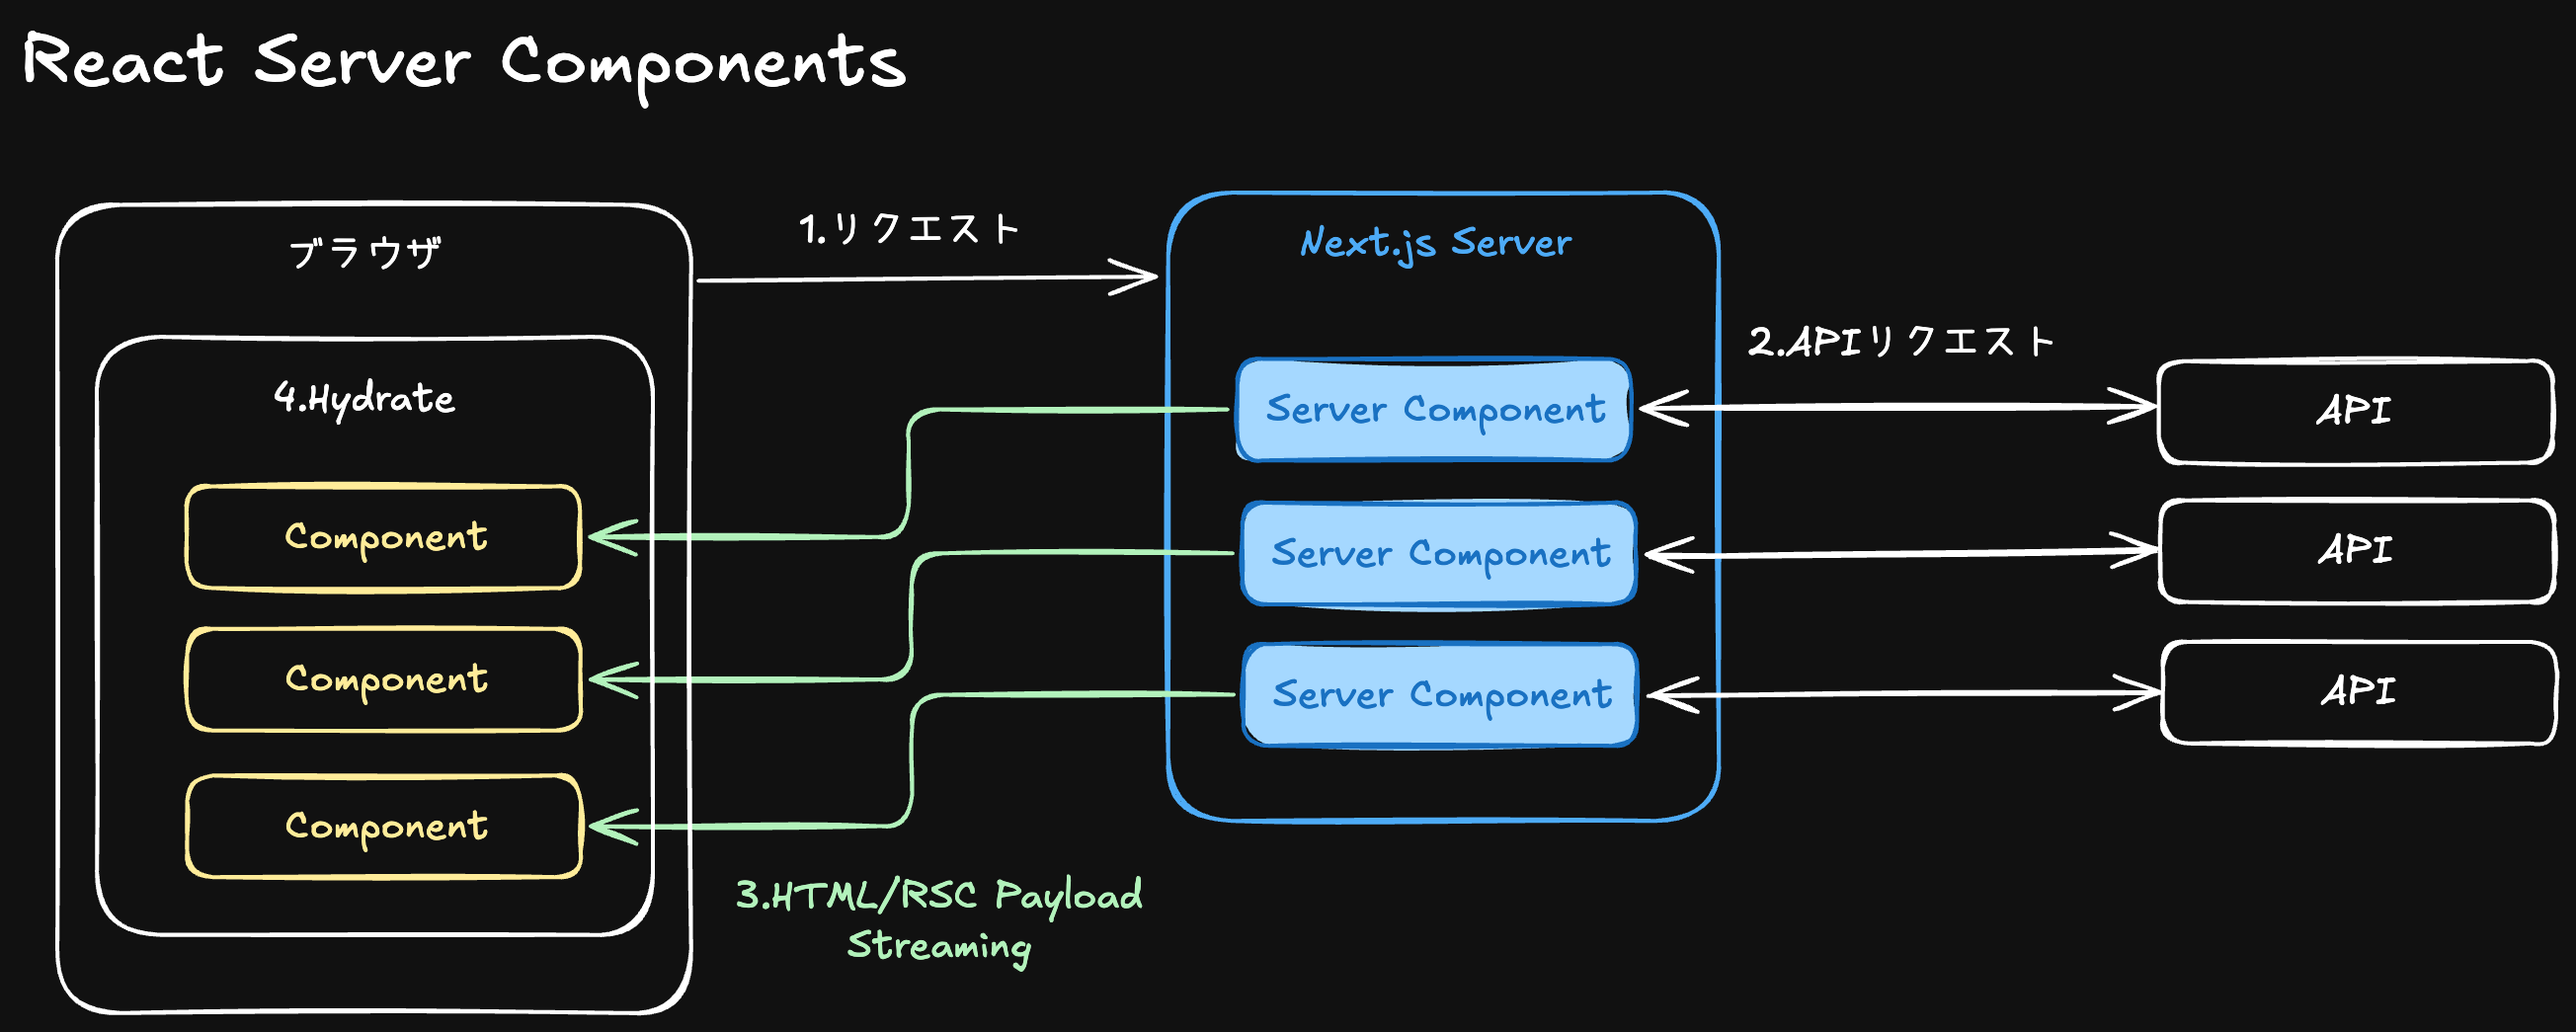
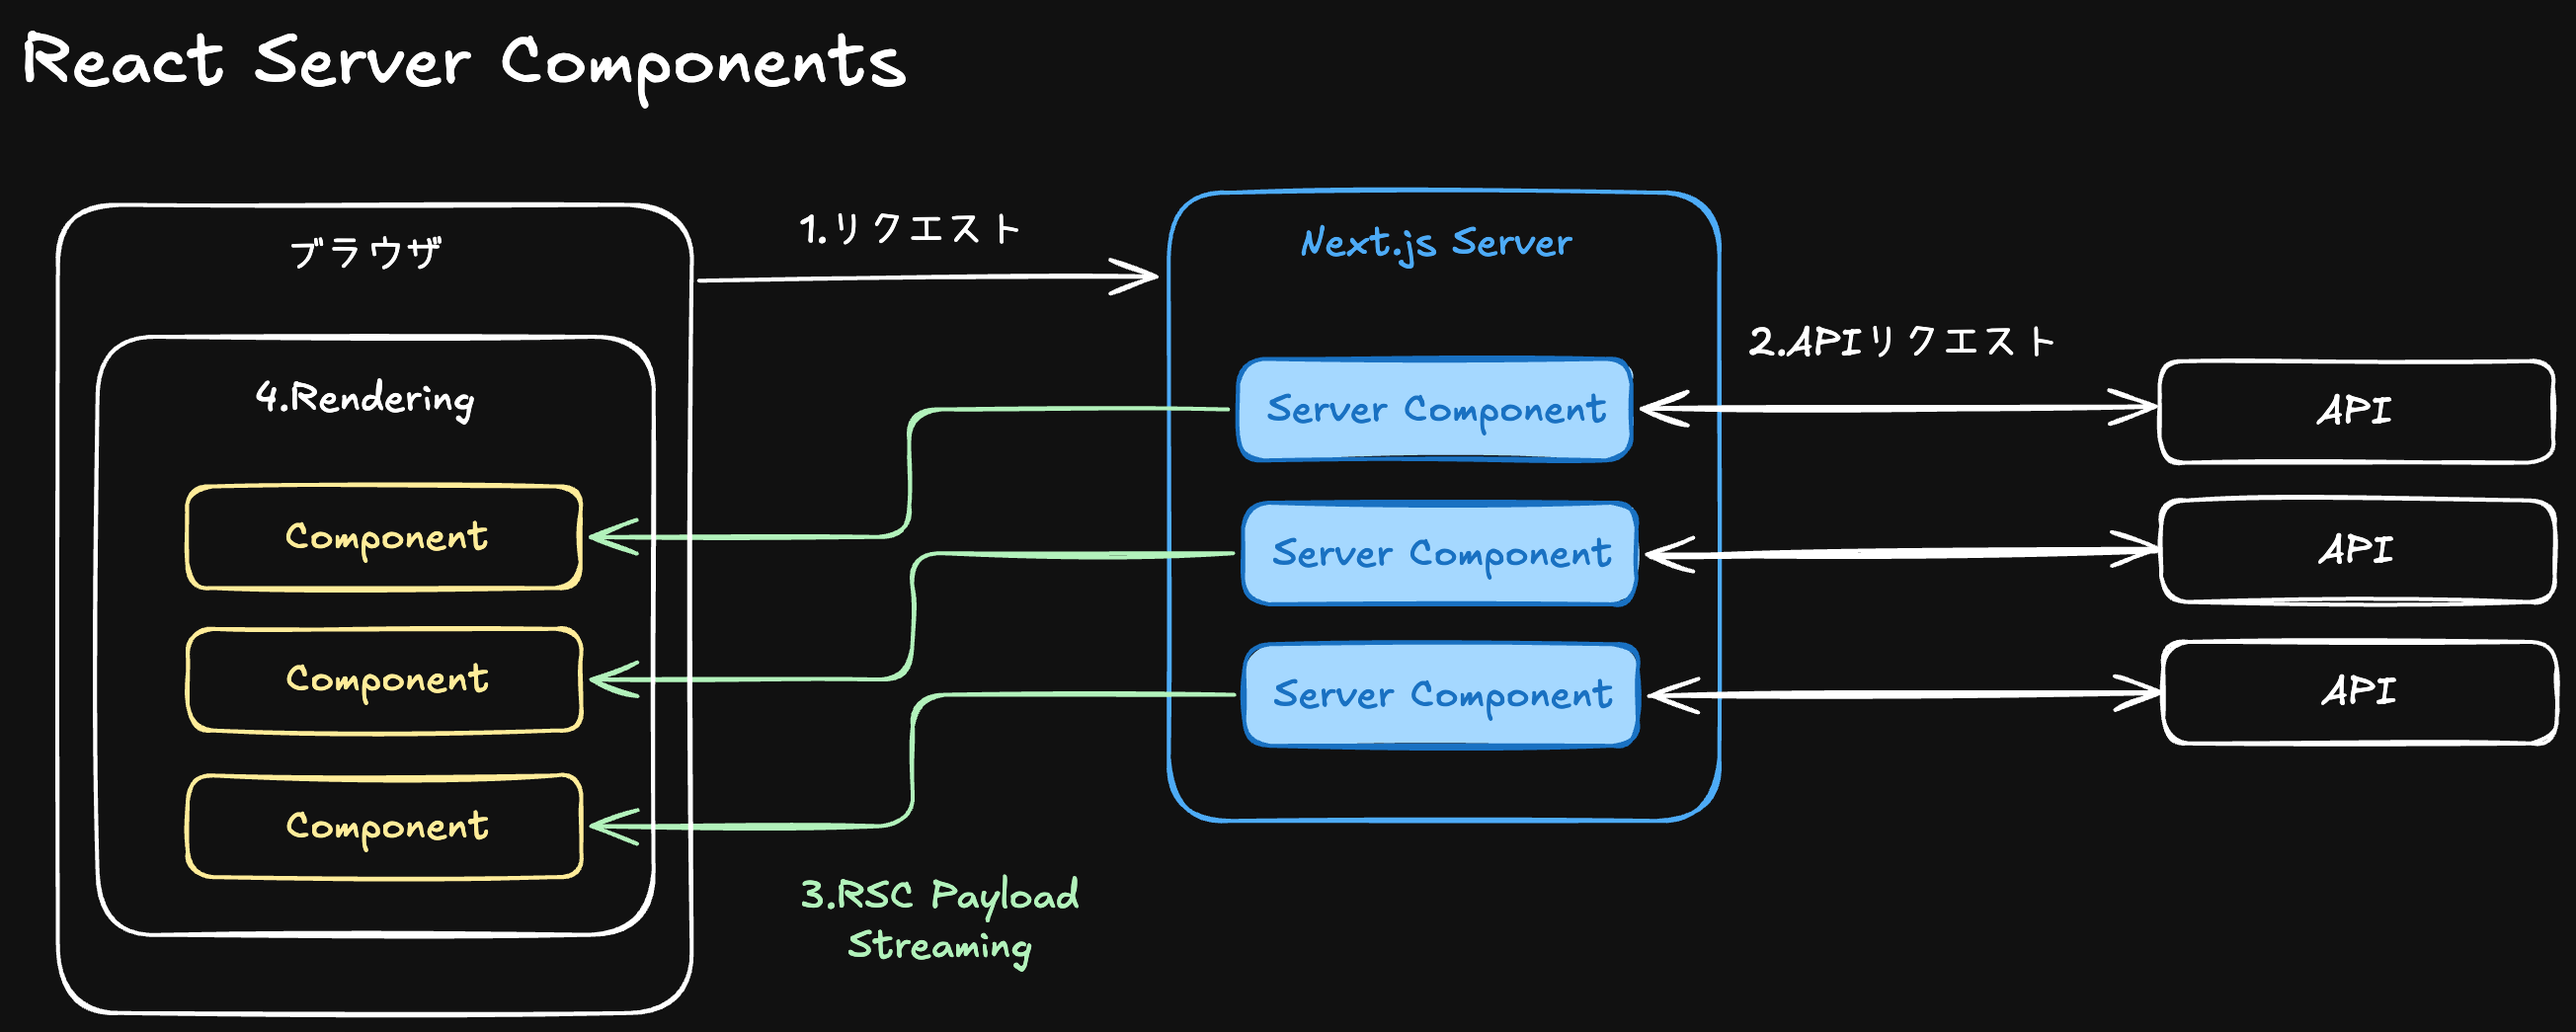
RSC with SSRの図の追加

diff --git a/slides.md b/slides.md
@@ -263,25 +263,33 @@ layout: section
 ---
 
 <div class="w-full h-full flex justify-center items-center">
-<img src="/legacy.png" alt="リクエスト指向SSR" class="h-220px">
+<img src="/legacy.png" alt="Web Backend & Micro Service" class="h-220px">
 </div>
 
 ---
 
 <div class="w-full h-full flex justify-center items-center">
-<img src="/csr.png" alt="コンポーネント指向CSR" class="h-350px">
+<img src="/csr.png" alt="React with CSR fetch" class="h-350px">
 </div>
 
 ---
 
 <div class="w-full h-full flex justify-center items-center">
-<img src="/ssr.png" alt="Next.js Pages Router" class="h-350px">
+<img src="/ssr.png" alt="React with SSR" class="h-350px">
+</div>
+
+---
+transition: fade
+---
+
+<div class="w-full h-full flex justify-center items-center">
+<img src="/rsc.png" alt="React Server Components" class="h-350px">
 </div>
 
 ---
 
 <div class="w-full h-full flex justify-center items-center">
-<img src="/rsc.png" alt="Next.js App Router(RSC)" class="h-350px">
+<img src="/rsc-ssr.png" alt="React Server Components with SSR" class="h-350px">
 </div>
 
 ---

diff --git a/README.md b/README.md
@@ -8,7 +8,7 @@
 ### Excalidraw
 
 - [v1](https://excalidraw.com/#json=sZLj7H-DFp32nMwLviITb,E0zJdnTJIqyAgHyRj423rQ)
-- [v1.1](https://excalidraw.com/#json=ji8S6TMAoHtMfa6xLaUX6,pvhF3ltga0r3S6Or6Cx1_g)
+- [v1.1](https://excalidraw.com/#json=V9EQ__mbGQpYtKxv1kB6e,V18lZlaUDvoumYXVQGvKyA)
 
 ## Event
 
